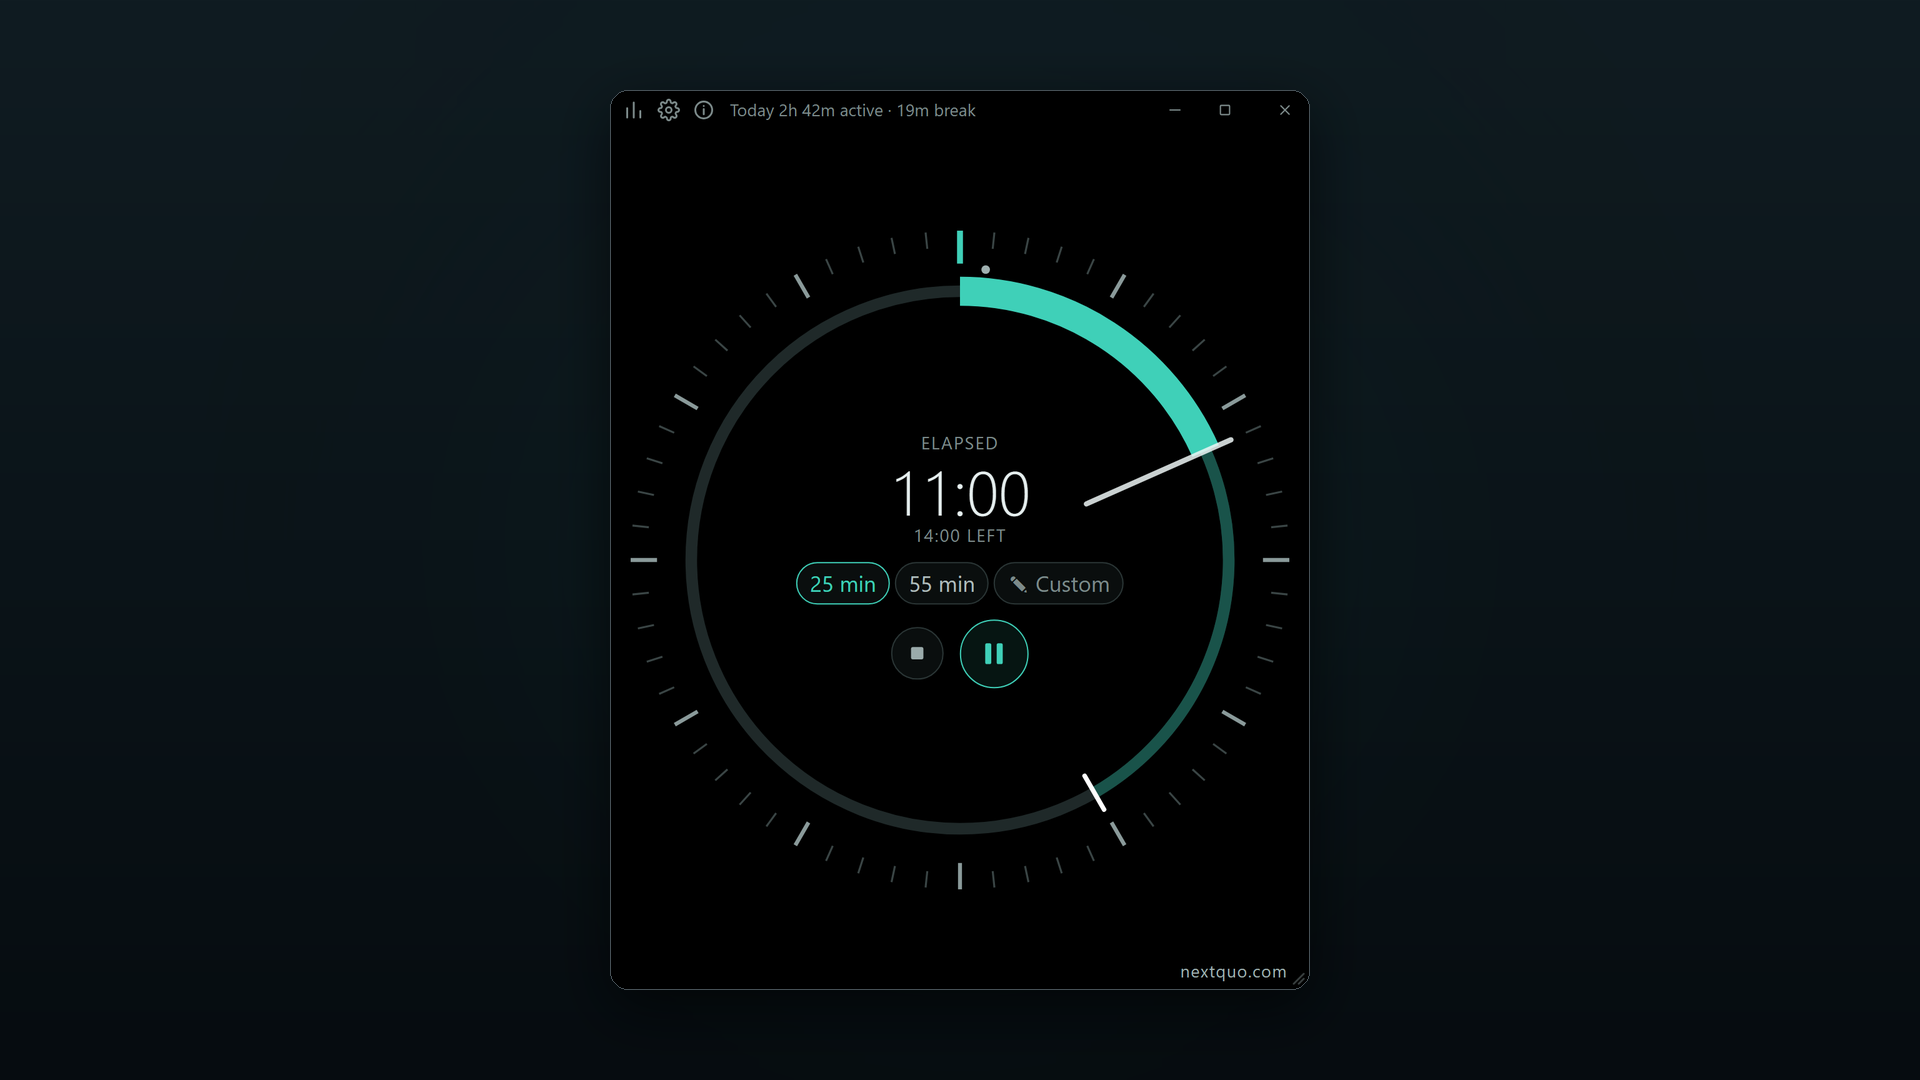
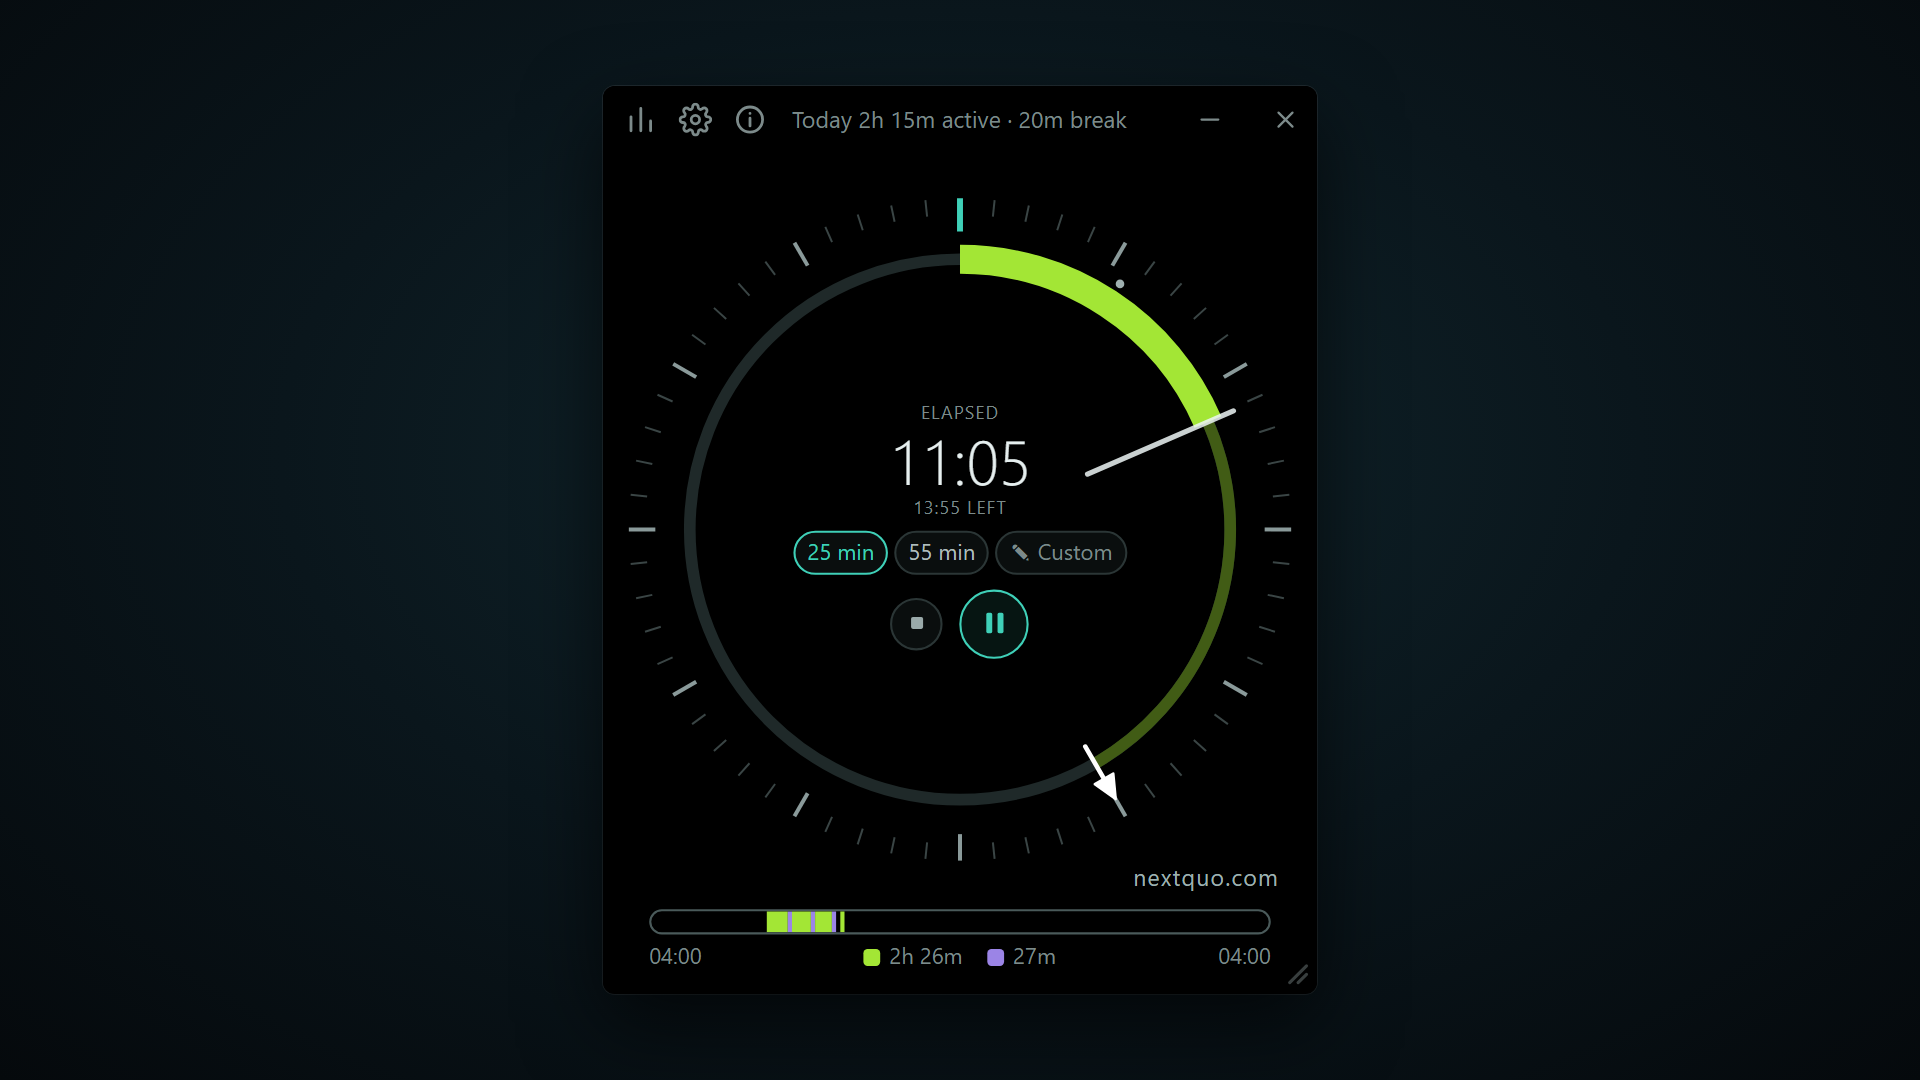
Refresh store screenshots, show ellipsis in narrow title bar, add backup to What's new and privacy policy

diff --git a/web/style.css b/web/style.css
@@ -42,7 +42,7 @@ body {
 .ib:hover { background: var(--hover); }
 .ib svg { width: 100%; height: 100%; fill: none; stroke: var(--dim); stroke-width: 2; stroke-linecap: round; }
 .ib:hover svg, .ib.on svg { stroke: var(--icon-hi); }
-#today { margin-left: 6px; color: var(--dim); font-size: .85rem; white-space: nowrap; overflow: hidden; text-overflow: ellipsis; flex: 1 1 auto; min-width: 0; align-self: stretch; display: flex; align-items: center; }
+#today { margin-left: 6px; color: var(--dim); font-size: .85rem; white-space: nowrap; overflow: hidden; text-overflow: ellipsis; flex: 1 1 auto; min-width: 0; align-self: stretch; line-height: 32px; }   /* a block (not flex) so the ellipsis shows when the window is narrow */
 /* window buttons (app only): minimize + close only (maximize is pointless for a small timer), close set apart */
 #wc { display: flex; align-items: stretch; height: 100%; margin-left: auto; flex: none; }
 #wc[hidden] { display: none; }

diff --git a/store/privacy-policy.md b/store/privacy-policy.md
@@ -3,13 +3,13 @@
 *Last updated: 2026-11-23*
 
 **English**
-Timer does not collect, transmit or share any personal data. The app works entirely offline. Your settings (duration, sound, language, and the optional sound file you choose) and your activity summary (active time and breaks) are stored only on your device, in the app's local storage, and are removed when you uninstall the app. The app contains no advertising, no analytics and no third-party trackers. The app shows a link to nextquo.com and a link to an optional voluntary-donation page (ko-fi.com/gabrielem); they open in your browser only if you click them, and the app itself sends no data. The optional inactivity check only reads how long it has been since the last keyboard or mouse input (never which keys you press or what you type); the value is used on your device and is not stored or sent anywhere. Contact: gab.carpediem@gmail.com
+Timer does not collect, transmit or share any personal data. The app works entirely offline. Your settings (duration, sound, language, and the optional sound file you choose) and your activity summary (active time and breaks) are stored only on your device, in the app's local storage, and are removed when you uninstall the app. The app contains no advertising, no analytics and no third-party trackers. The app shows a link to nextquo.com and a link to an optional voluntary-donation page (ko-fi.com/gabrielem); they open in your browser only if you click them, and the app itself sends no data. The optional inactivity check only reads how long it has been since the last keyboard or mouse input (never which keys you press or what you type); the value is used on your device and is not stored or sent anywhere. If you choose to export a CSV file or save a backup, the file is written only where you choose on your device; the app does not send it anywhere. Contact: gab.carpediem@gmail.com
 
 **Italiano**
-Timer non raccoglie, trasmette né condivide dati personali. L'app funziona interamente offline. Le impostazioni (durata, suono, lingua e l'eventuale file audio scelto da te) e il riepilogo dell'attività (tempo attivo e pause) restano solo sul tuo dispositivo, nella memoria locale dell'app, e vengono eliminati quando disinstalli l'app. Non ci sono pubblicità, statistiche d'uso né tracciatori di terze parti. L'app mostra un link a nextquo.com e uno a una pagina di donazione volontaria facoltativa (ko-fi.com/gabrielem): si aprono nel browser solo se li clicchi e l'app stessa non invia alcun dato. Il controllo di inattività facoltativo legge solo da quanto tempo non c'è input da tastiera o mouse (mai quali tasti premi né cosa scrivi); il valore è usato sul tuo dispositivo e non viene salvato né inviato. Contatto: gab.carpediem@gmail.com
+Timer non raccoglie, trasmette né condivide dati personali. L'app funziona interamente offline. Le impostazioni (durata, suono, lingua e l'eventuale file audio scelto da te) e il riepilogo dell'attività (tempo attivo e pause) restano solo sul tuo dispositivo, nella memoria locale dell'app, e vengono eliminati quando disinstalli l'app. Non ci sono pubblicità, statistiche d'uso né tracciatori di terze parti. L'app mostra un link a nextquo.com e uno a una pagina di donazione volontaria facoltativa (ko-fi.com/gabrielem): si aprono nel browser solo se li clicchi e l'app stessa non invia alcun dato. Il controllo di inattività facoltativo legge solo da quanto tempo non c'è input da tastiera o mouse (mai quali tasti premi né cosa scrivi); il valore è usato sul tuo dispositivo e non viene salvato né inviato. Se scegli di esportare un file CSV o salvare un backup, il file viene scritto solo nel punto che scegli sul tuo dispositivo; l'app non lo invia da nessuna parte. Contatto: gab.carpediem@gmail.com
 
 **Français**
-Timer ne collecte, ne transmet et ne partage aucune donnée personnelle. L'application fonctionne entièrement hors ligne. Vos réglages (durée, son, langue et le fichier audio facultatif que vous choisissez) et votre résumé d'activité (temps actif et pauses) sont stockés uniquement sur votre appareil, dans le stockage local de l'application, et supprimés lorsque vous la désinstallez. Aucune publicité, aucune statistique d'usage, aucun traceur tiers. L'application affiche un lien vers nextquo.com et un lien vers une page de don volontaire facultative (ko-fi.com/gabrielem) : ils s'ouvrent dans votre navigateur uniquement si vous cliquez dessus, et l'application n'envoie aucune donnée. La détection d'inactivité facultative lit uniquement depuis combien de temps il n'y a pas eu d'entrée clavier ou souris (jamais quelles touches vous pressez ni ce que vous tapez) ; la valeur est utilisée sur votre appareil et n'est ni enregistrée ni envoyée. Contact : gab.carpediem@gmail.com
+Timer ne collecte, ne transmet et ne partage aucune donnée personnelle. L'application fonctionne entièrement hors ligne. Vos réglages (durée, son, langue et le fichier audio facultatif que vous choisissez) et votre résumé d'activité (temps actif et pauses) sont stockés uniquement sur votre appareil, dans le stockage local de l'application, et supprimés lorsque vous la désinstallez. Aucune publicité, aucune statistique d'usage, aucun traceur tiers. L'application affiche un lien vers nextquo.com et un lien vers une page de don volontaire facultative (ko-fi.com/gabrielem) : ils s'ouvrent dans votre navigateur uniquement si vous cliquez dessus, et l'application n'envoie aucune donnée. La détection d'inactivité facultative lit uniquement depuis combien de temps il n'y a pas eu d'entrée clavier ou souris (jamais quelles touches vous pressez ni ce que vous tapez) ; la valeur est utilisée sur votre appareil et n'est ni enregistrée ni envoyée. Si vous choisissez d'exporter un fichier CSV ou d'enregistrer une sauvegarde, le fichier est écrit uniquement à l'endroit que vous choisissez sur votre appareil ; l'application ne l'envoie nulle part. Contact : gab.carpediem@gmail.com
 
 **Español**
-Timer no recopila, transmite ni comparte datos personales. La aplicación funciona totalmente sin conexión. Tus ajustes (duración, sonido, idioma y el archivo de audio opcional que elijas) y el resumen de actividad (tiempo activo y pausas) se guardan solo en tu dispositivo, en el almacenamiento local de la aplicación, y se eliminan al desinstalarla. No hay publicidad, analíticas ni rastreadores de terceros. La aplicación muestra un enlace a nextquo.com y otro a una página de donación voluntaria opcional (ko-fi.com/gabrielem): se abren en tu navegador solo si haces clic y la propia aplicación no envía ningún dato. La detección de inactividad opcional solo lee cuánto tiempo hace que no hay entrada de teclado o ratón (nunca qué teclas pulsas ni qué escribes); el valor se usa en tu dispositivo y no se guarda ni se envía. Contacto: gab.carpediem@gmail.com
+Timer no recopila, transmite ni comparte datos personales. La aplicación funciona totalmente sin conexión. Tus ajustes (duración, sonido, idioma y el archivo de audio opcional que elijas) y el resumen de actividad (tiempo activo y pausas) se guardan solo en tu dispositivo, en el almacenamiento local de la aplicación, y se eliminan al desinstalarla. No hay publicidad, analíticas ni rastreadores de terceros. La aplicación muestra un enlace a nextquo.com y otro a una página de donación voluntaria opcional (ko-fi.com/gabrielem): se abren en tu navegador solo si haces clic y la propia aplicación no envía ningún dato. La detección de inactividad opcional solo lee cuánto tiempo hace que no hay entrada de teclado o ratón (nunca qué teclas pulsas ni qué escribes); el valor se usa en tu dispositivo y no se guarda ni se envía. Si decides exportar un archivo CSV o guardar una copia de seguridad, el archivo se escribe solo donde elijas en tu dispositivo; la aplicación no lo envía a ningún sitio. Contacto: gab.carpediem@gmail.com

diff --git a/store/listing.md b/store/listing.md
@@ -30,6 +30,7 @@ Realizzato da nextquo.com, che crea siti e app su misura.
 • Durante una pausa il quadrante mostra da quanto dura, con il pulsante Riprendi.
 • Il segnalino dell'obiettivo si vede meglio: un triangolo che punta alla tacca del quadrante, accanto al segno sull'anello.
 • Finestra più compatta (circa 10% in meno) e barra del titolo più sottile.
+• Backup e ripristino: salva statistiche e impostazioni in un file e ripristinale su un altro PC o dopo una reinstallazione.
 • Privacy: il controllo di inattività legge solo da quanto tempo non c'è input, mai cosa scrivi.
 
 **Parole chiave:** timer, pausa, seduto, sedentarietà, pomodoro, focus, promemoria, analogico
@@ -60,6 +61,7 @@ Made by nextquo.com, which builds custom websites and apps.
 • During a break the dial shows how long it has lasted, with a Resume button.
 • Easier-to-see goal marker: a triangle pointing at the dial tick, next to the line across the ring.
 • More compact window (about 10% smaller) and a tighter title bar.
+• Backup and restore: save your statistics and settings to a file and restore them on another PC or after a reinstall.
 • Privacy: the inactivity check only reads how long it has been since the last input, never what you type.
 
 **Keywords:** timer, break, sitting, sedentary, pomodoro, focus, reminder, analog
@@ -90,6 +92,7 @@ Réalisé par nextquo.com, qui crée des sites web et des applications sur mesur
 • Pendant une pause, le cadran indique sa durée, avec un bouton Reprendre.
 • Repère d'objectif plus visible : un triangle pointant vers la graduation du cadran, à côté du trait sur l'anneau.
 • Fenêtre plus compacte (environ 10 % de moins) et barre de titre plus fine.
+• Sauvegarde et restauration : enregistrez vos statistiques et réglages dans un fichier et restaurez-les sur un autre PC ou après une réinstallation.
 • Confidentialité : la détection d'inactivité lit seulement le temps écoulé depuis la dernière saisie, jamais ce que vous tapez.
 
 **Mots-clés :** minuteur, pause, assis, sédentarité, pomodoro, concentration, rappel, analogique
@@ -120,15 +123,19 @@ Creado por nextquo.com, que desarrolla sitios web y apps a medida.
 • Durante un descanso, la esfera muestra cuánto dura, con un botón Reanudar.
 • Marcador de objetivo más visible: un triángulo que apunta a la marca de la esfera, junto a la línea sobre el anillo.
 • Ventana más compacta (un 10 % menos) y barra de título más fina.
+• Copia de seguridad y restauración: guarda tus estadísticas y ajustes en un archivo y restáuralos en otro PC o tras reinstalar.
 • Privacidad: la detección de inactividad solo lee cuánto tiempo pasó desde la última entrada, nunca lo que escribes.
 
 **Palabras clave:** temporizador, pausa, sentado, sedentarismo, pomodoro, concentración, recordatorio, analógico
 
 ---
 
-## Screenshot consigliati (1366×768 o più)
-1. Timer in corso (anello verde) — finestra media.
-2. Timer in "oltre il tempo" con 2 anelli (verde + arancione).
-3. Impostazioni con la lista suoni.
-4. Riepilogo di oggi.
-5. Finestra piccola per mostrare quanto è compatto.
+## Screenshot (1920×1080, in `store/screenshots/en/`)
+1. Timer in corso con barra della giornata e segnalino dell'obiettivo.
+2. Oltre il tempo: anello arancione sopra il primo.
+3. Riepilogo di oggi e degli ultimi 7 giorni.
+4. Card «Ci sei ancora?».
+5. Impostazioni: card, colori, tema.
+6. Impostazioni: suono, ripetizioni, durate.
+7. Tema chiaro.
+8. Finestra compatta.
